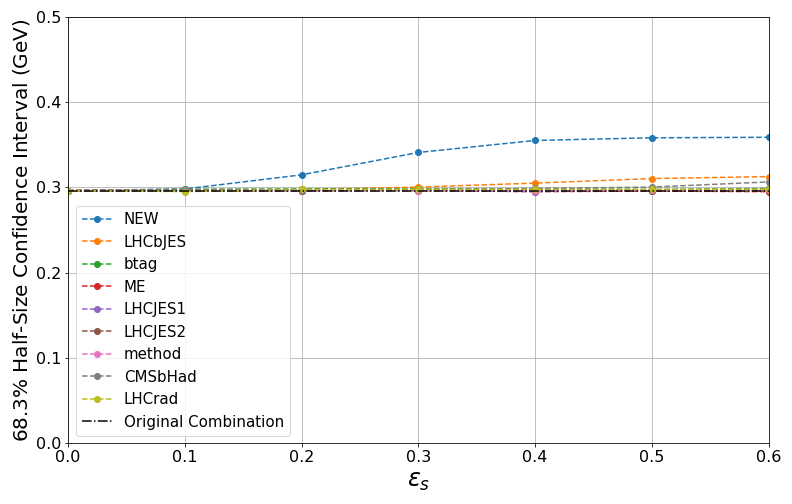
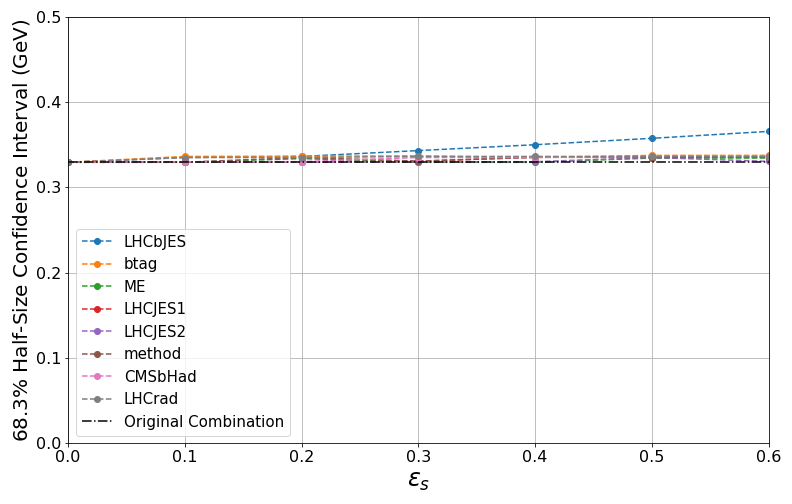
fix: save the fictitious confidence interval plot separately

diff --git a/tutorials/top-mass/top-mass-combination.md b/tutorials/top-mass/top-mass-combination.md
@@ -208,5 +208,5 @@ plt.show()
 
 ![png](output/central_values_fict.png)
 
-![png](output/confidence_intervals.png)
+![png](output/confidence_intervals_fict.png)
 